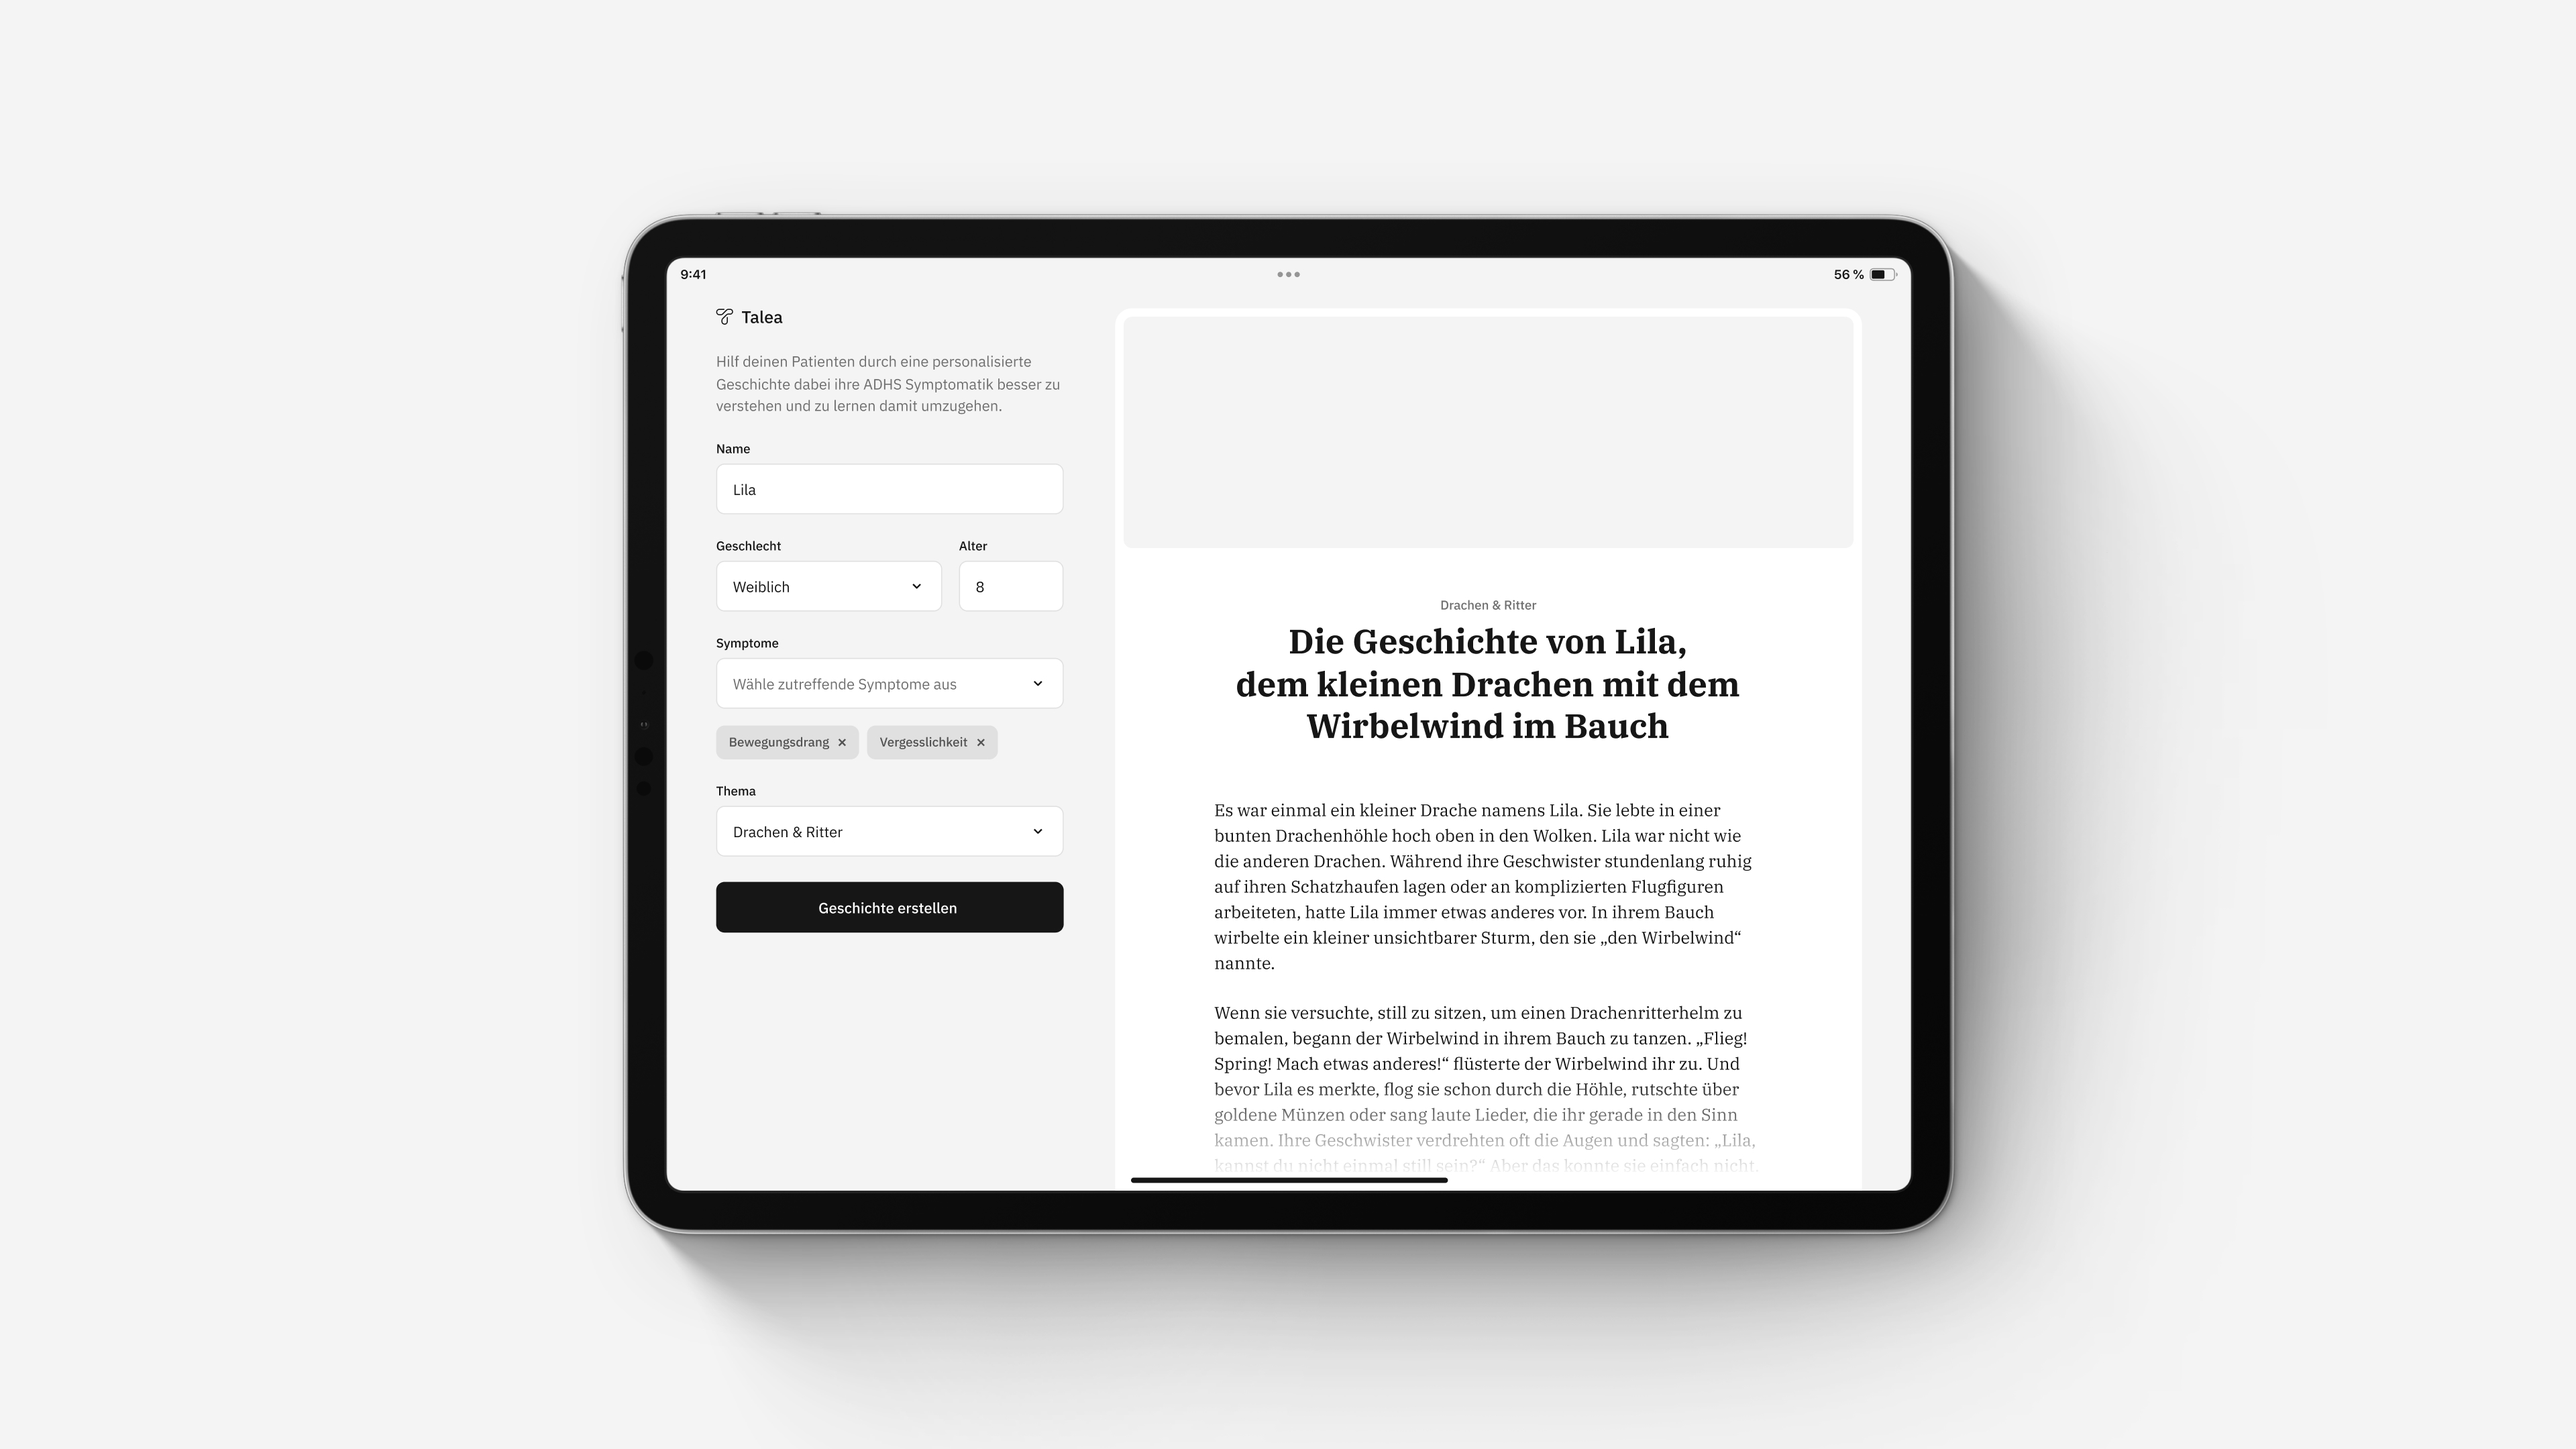
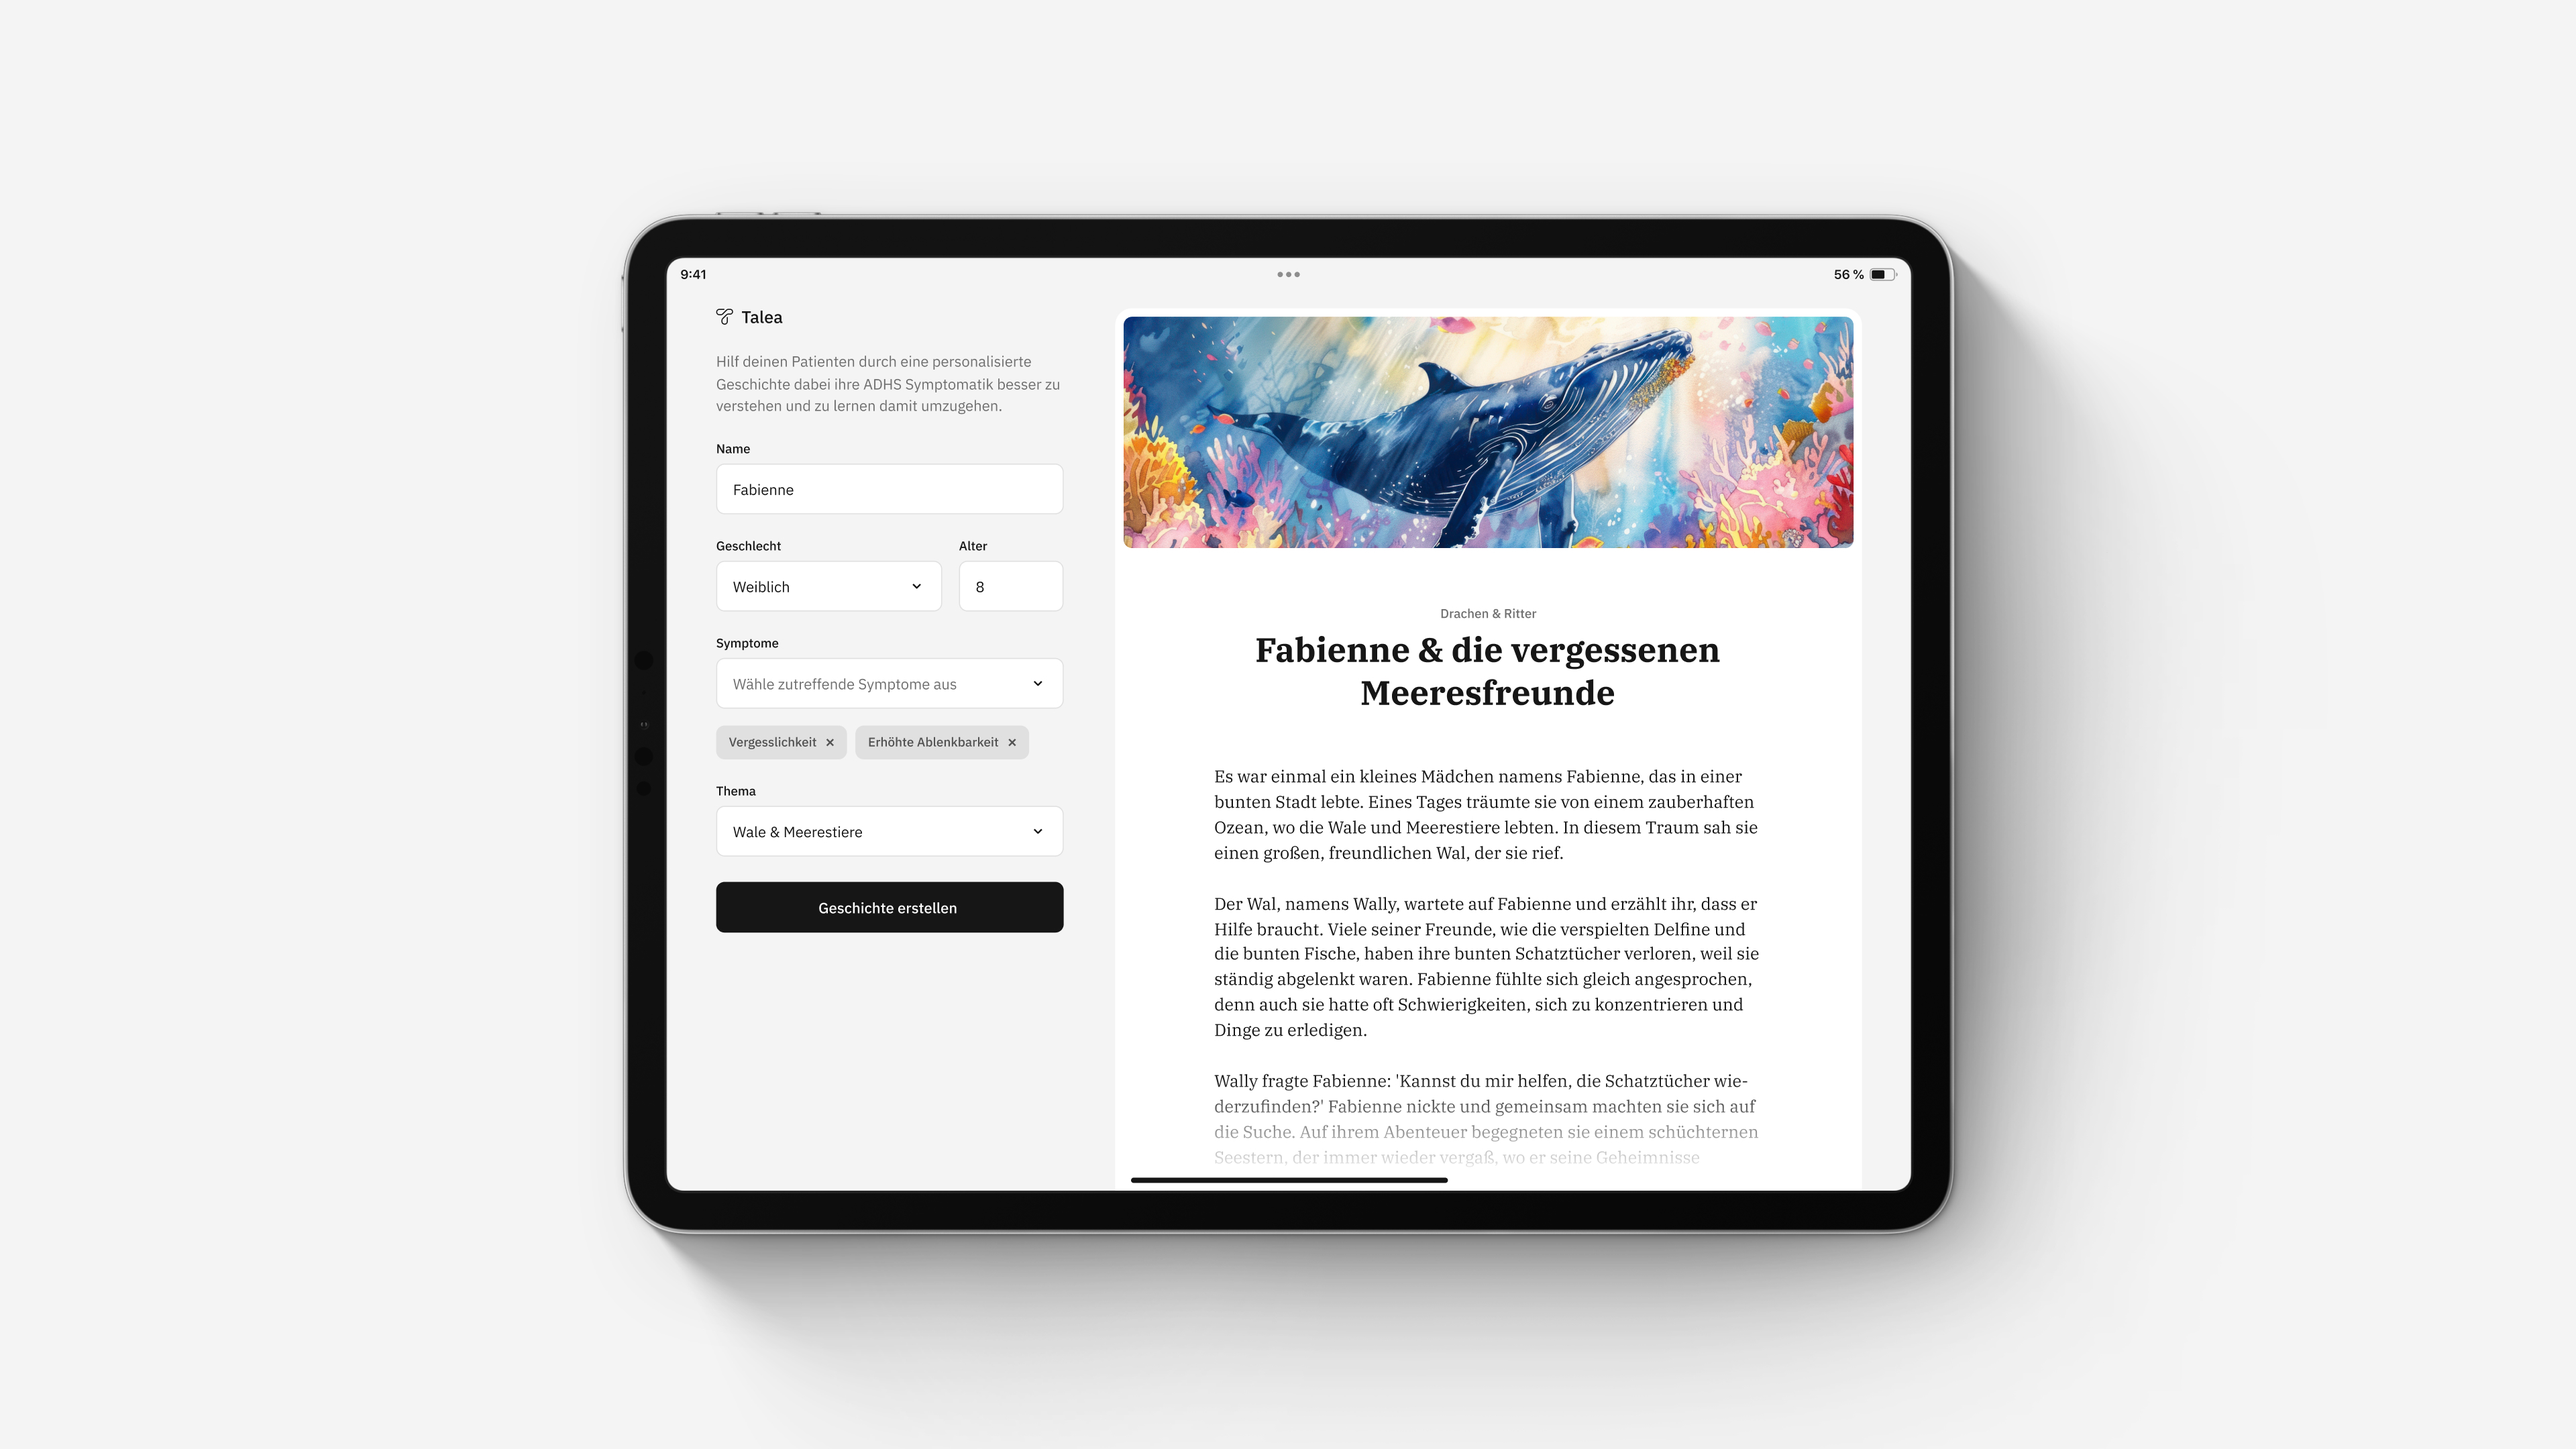
add cover images

diff --git a/data/data.ts b/data/data.ts
@@ -1,18 +1,17 @@
 export const tale = {
-	theme: "Drachen & Ritter",
-	title: "Die Geschichte von Lila, dem kleinen Drachen mit dem Wirbelwind im Bauch",
+	theme: "Wale & Meerestiere",
+	title: "Fabienne & die vergessenen Meeresfreunde",
 	story: [
-		"Es war einmal ein kleiner Drache namens Lila. Sie lebte in einer bunten Drachenhöhle hoch oben in den Wolken. Lila war nicht wie die anderen Drachen. Während ihre Geschwister stundenlang ruhig auf ihren Schatzhaufen lagen oder an komplizierten Flugfiguren arbeiteten, hatte Lila immer etwas anderes vor. In ihrem Bauch wirbelte ein kleiner unsichtbarer Sturm, den sie „den Wirbelwind“ nannte.",
-		"Wenn sie versuchte, still zu sitzen, um einen Drachenritterhelm zu bemalen, begann der Wirbelwind in ihrem Bauch zu tanzen. „Flieg! Spring! Mach etwas anderes!“ flüsterte der Wirbelwind ihr zu. Und bevor Lila es merkte, flog sie schon durch die Höhle, rutschte über goldene Münzen oder sang laute Lieder, die ihr gerade in den Sinn kamen. Ihre Geschwister verdrehten oft die Augen und sagten: „Lila, kannst du nicht einmal still sein?“ Aber das konnte sie einfach nicht.",
-		"Doch das war nicht alles. Manchmal gab es wichtige Drachenaufgaben, wie Feuerbälle exakt zu zünden oder lange Schatzkarten zu lesen. Lila wollte das wirklich tun, doch sobald sie anfing, entdeckte sie auf der Karte einen lustigen Baum oder einen Schatztruhenschlüssel, der sie ablenkte. Bevor sie es merkte, war sie auf einer völlig anderen Mission. „Warum mache ich nie das, was ich eigentlich soll?“ fragte sich Lila oft traurig.",
-		"Eines Tages bekam Lila eine große Aufgabe: Die Drachenritter brauchten ihre Hilfe, um ein verlorenes Schwert zu finden. Das Schwert war magisch und nur ein Drache mit viel Energie und Fantasie konnte es entdecken. Lila war aufgeregt! Sie flog los, doch unterwegs passierten wieder all diese Dinge: Sie blieb stehen, um mit einem bunten Vogel zu reden, und vergaß fast, warum sie überhaupt unterwegs war. Sie entdeckte einen Wasserfall und spritzte mit den Füßen durchs Wasser, bis sie plötzlich dachte: „Oh nein, ich soll doch das Schwert finden!“",
-		"Lila wurde frustriert. „Ich kann das nicht!“ sagte sie laut. Aber dann hörte sie eine Stimme: „Doch, das kannst du!“ Es war ein weiser, alter Drache, der am Rand des Waldes saß. „Weißt du, Lila, dein Wirbelwind ist manchmal sehr wild. Aber genau das macht dich auch besonders. Du siehst Dinge, die andere übersehen, und kommst auf Ideen, die niemand sonst hätte. Du musst nur lernen, deinen Wirbelwind zu lenken.“",
-		"„Wie lenkt man einen Wirbelwind?“ fragte Lila neugierig. Der alte Drache lächelte. „Erstmal atme tief ein und zähle bis drei. Dann denk dir eine kleine Aufgabe – etwas, das du sofort tun kannst. Zum Beispiel: Finde nur den nächsten Baum mit Moos und dann den nächsten. Stück für Stück.“",
-		"Lila probierte es aus. Sie nahm einen tiefen Atemzug, zählte bis drei und suchte den ersten Baum. Es funktionierte! Und mit jedem kleinen Schritt wurde der Wirbelwind ein bisschen ruhiger. Schließlich fand sie das Schwert – und die Drachenritter jubelten.",
-		"Von diesem Tag an wusste Lila, dass ihr Wirbelwind kein Feind war, sondern ein Freund, der sie besonders machte. Sie musste nur manchmal mit ihm reden, ihn lenken und Pausen machen. Und obwohl es nicht immer perfekt klappte, wusste sie: „Ich bin ein kleiner Drache mit einem großen Wirbelwind – und das ist gut so.“",
+		"Es war einmal ein kleines Mädchen namens Fabienne, das in einer bunten Stadt lebte. Eines Tages träumte sie von einem zauberhaften Ozean, wo die Wale und Meerestiere lebten. In diesem Traum sah sie einen großen, freundlichen Wal, der sie rief.",
+		"Der Wal, namens Wally, wartete auf Fabienne und erzählt ihr, dass er Hilfe braucht. Viele seiner Freunde, wie die verspielten Delfine und die bunten Fische, haben ihre bunten Schatztücher verloren, weil sie ständig abgelenkt waren. Fabienne fühlte sich gleich angesprochen, denn auch sie hatte oft Schwierigkeiten, sich zu konzentrieren und Dinge zu erledigen.",
+		"Wally fragte Fabienne: 'Kannst du mir helfen, die Schatztücher wiederzufinden?' Fabienne nickte und gemeinsam machten sie sich auf die Suche. Auf ihrem Abenteuer begegneten sie einem schüchternen Seestern, der immer wieder vergaß, wo er seine Geheimnisse versteckt hatte.",
+		"Zusammen erkannten sie, dass sowohl der Wal als auch der Seestern manchmal etwas aufschoben, weil sie nicht wussten, wo sie anfangen sollten. Fabienne dachte daran, wie sie manchmal auch Dinge vor sich herschob, die sie nicht mochte. 'Wir müssen einfach einen Schritt nach dem anderen machen!', rief sie.",
+		"Mit frischem Mut und einer guten Strategie halfen Fabienne, Wally und der Seestern den anderen Tieren im Meer, ihre Schatztücher wiederzufinden. Dabei lernten sie, dass es manchmal hilft, eine Pause zu machen und einen Plan zu entwickeln.",
+		"Schließlich feierten sie ihre Erfolge mit einem großen Fest im Ozean. Fabienne fühlte sich stolz, denn sie hatte nicht nur den Tieren geholfen, sondern auch sich selbst ein Stück besser kennengelernt. Kurz bevor sie aufwachte, versprach Wally ihr, dass sie immer in ihren Träumen zusammen spielen könnten.",
+		"Als Fabienne am Morgen aufwachte, hatte sie ein Lächeln auf dem Gesicht. Sie wusste, dass sie, wie die Meerestiere, auch ihre kleinen Herausforderungen bewältigen konnte, wenn sie geduldig und fokussiert blieb.",
 		"Ende",
 	],
 };
 export const genders = ["Männlich", "Weiblich", "Divers"];
 export const symptoms = ["Schwierigkeiten still zu sitzen", "Gefühl innerer Unruhe", "Bewegungsdrang", "Viel reden", "Flüchtigkeitsfehler", "Vergesslichkeit", "Erhöhte Ablenkbarkeit", "Aufschieben ungeliebter Tätigkeiten", "Wenig Geduld", "Schnelle Frustration", "Starke und plötzliche Emotionen", "Unterbrechen/Stören anderer"];
-export const themes = ["Drachen & Ritter", "Astronauten & Weltall", "Tiere & Wald"];
+export const themes = ["Drachen & Ritter", "Wale & Meerestiere", "Feen & Elfen"];

diff --git a/components/layout/Tale.tsx b/components/layout/Tale.tsx
@@ -4,10 +4,16 @@ import Image from "next/image";
 import styled from "styled-components";
 import { TaleProps } from "@/types/TaleProps";
 
+function setCover(theme: string) {
+	if (theme === "Drachen & Ritter") return "dragon";
+	if (theme === "Wale & Meerestiere") return "whale";
+	return "fairy";
+}
+
 export default function Tale({ theme, title, story, isPending = false }: TaleProps) {
 	return (
 		<StyledArticle $isPending={isPending}>
-			<StyledImage src="/images/der-kleine-drache.jpg" width={707} height={235} alt="Childish watercolor of a dragon and a child in the forest talking to each other" priority />
+			<StyledImage src={`/images/${setCover(theme)}.jpg`} width={707} height={235} alt="Childish watercolor of a dragon and a child in the forest talking to each other" priority />
 			<StyledCaption>{theme}</StyledCaption>
 			<StyledHeadline>{title}</StyledHeadline>
 			<StyledWrapper>
